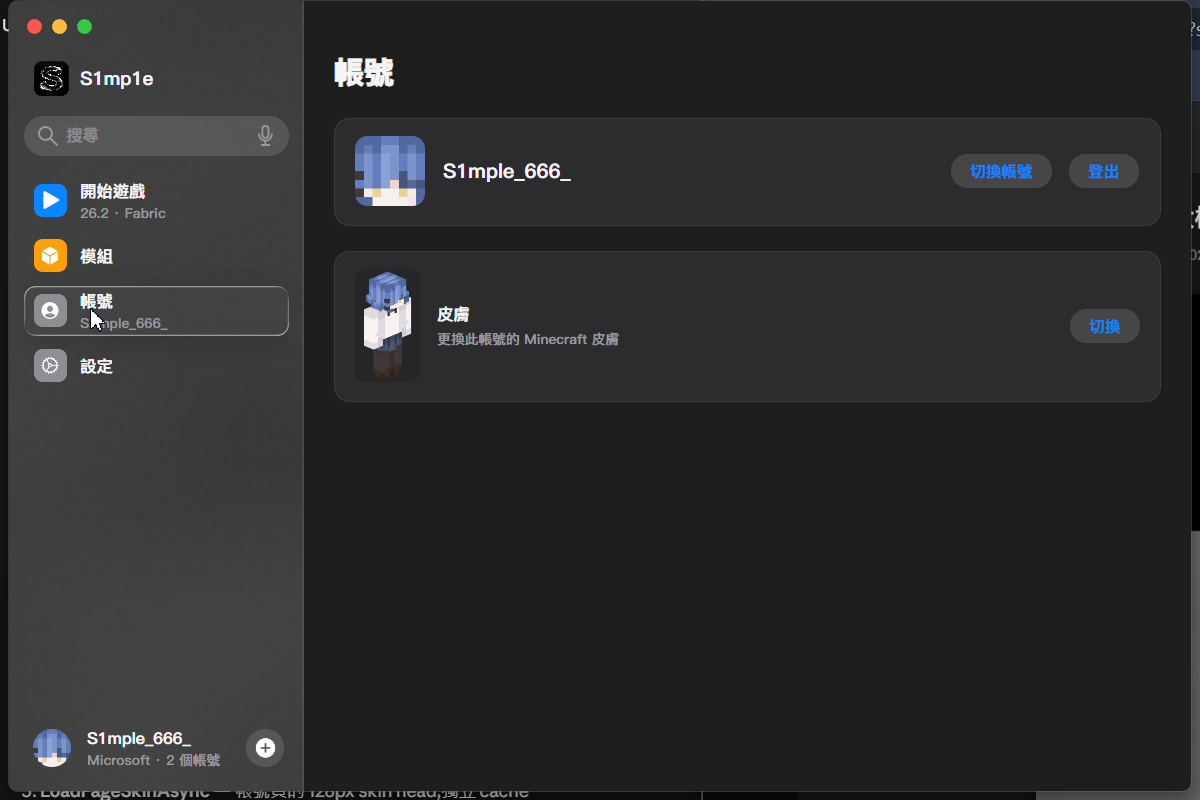
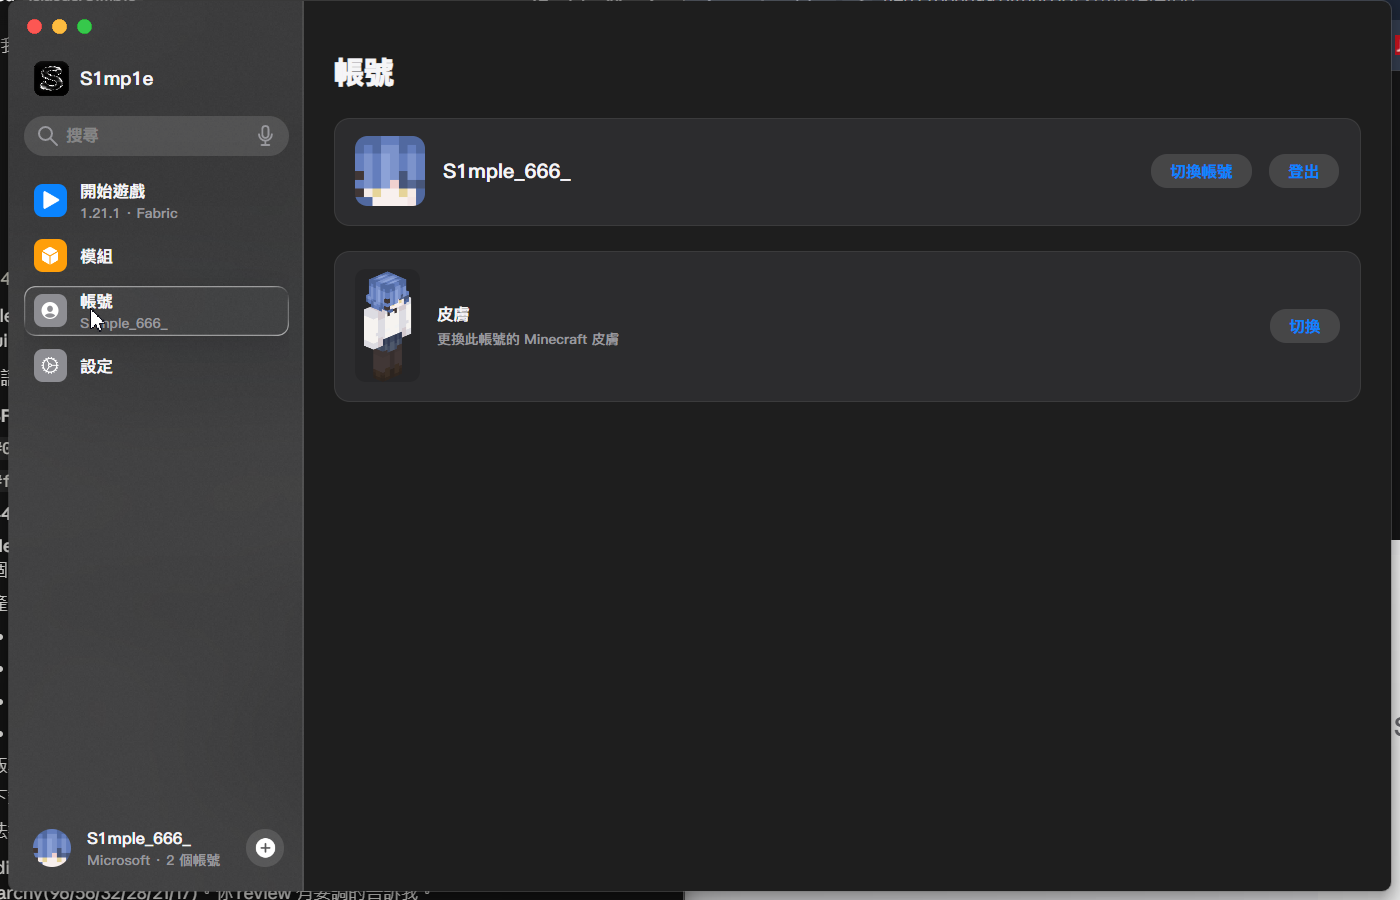
Refresh screenshots (1400x900, all three main pages)

diff --git a/docs/index.html b/docs/index.html
@@ -384,7 +384,7 @@ h3 { font-size: 32px; letter-spacing: 0.004em; line-height: 1.125; }
         <a href="#overview">深入了解</a>
     </div>
     <div class="hero-photo">
-        <img src="assets/browse.png" alt="S1mp1e 啟動器界面" loading="eager">
+        <img src="assets/start.png" alt="S1mp1e 啟動器界面" loading="eager">
     </div>
 </section>
 
